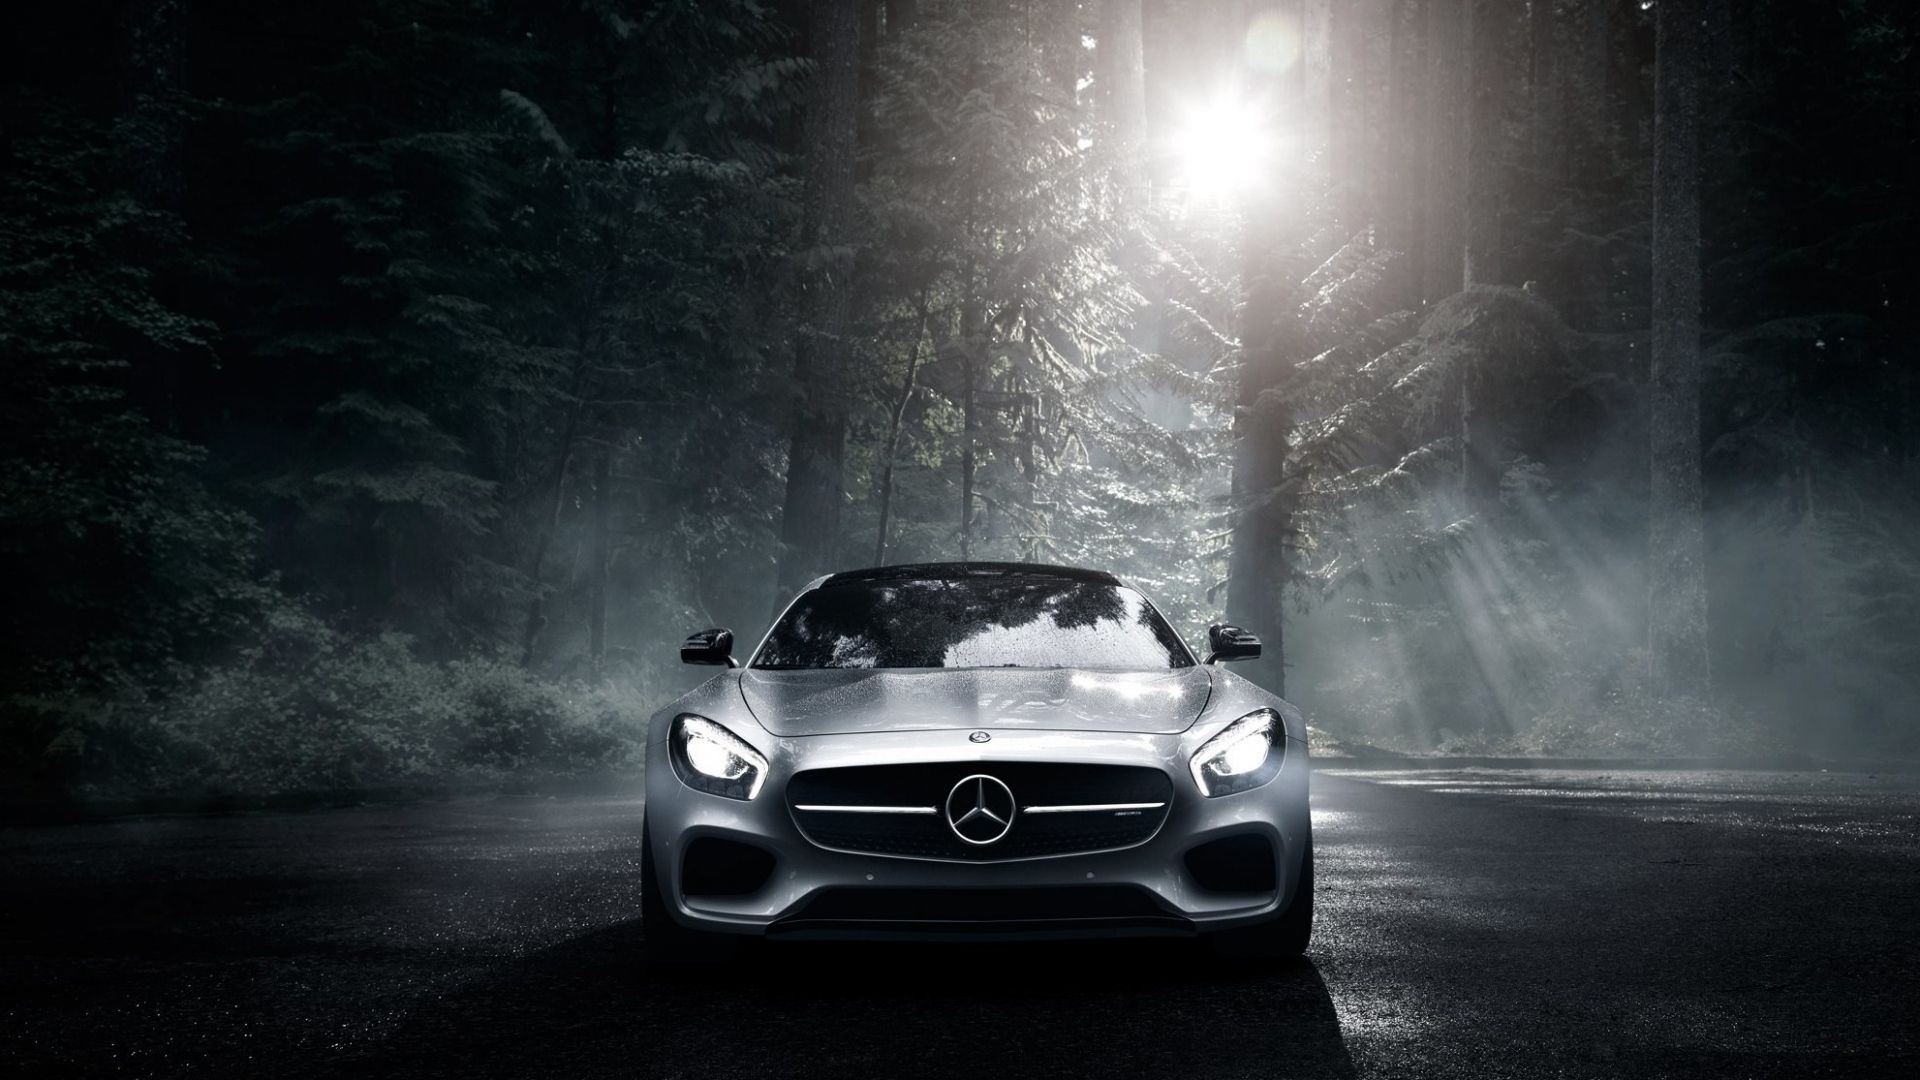
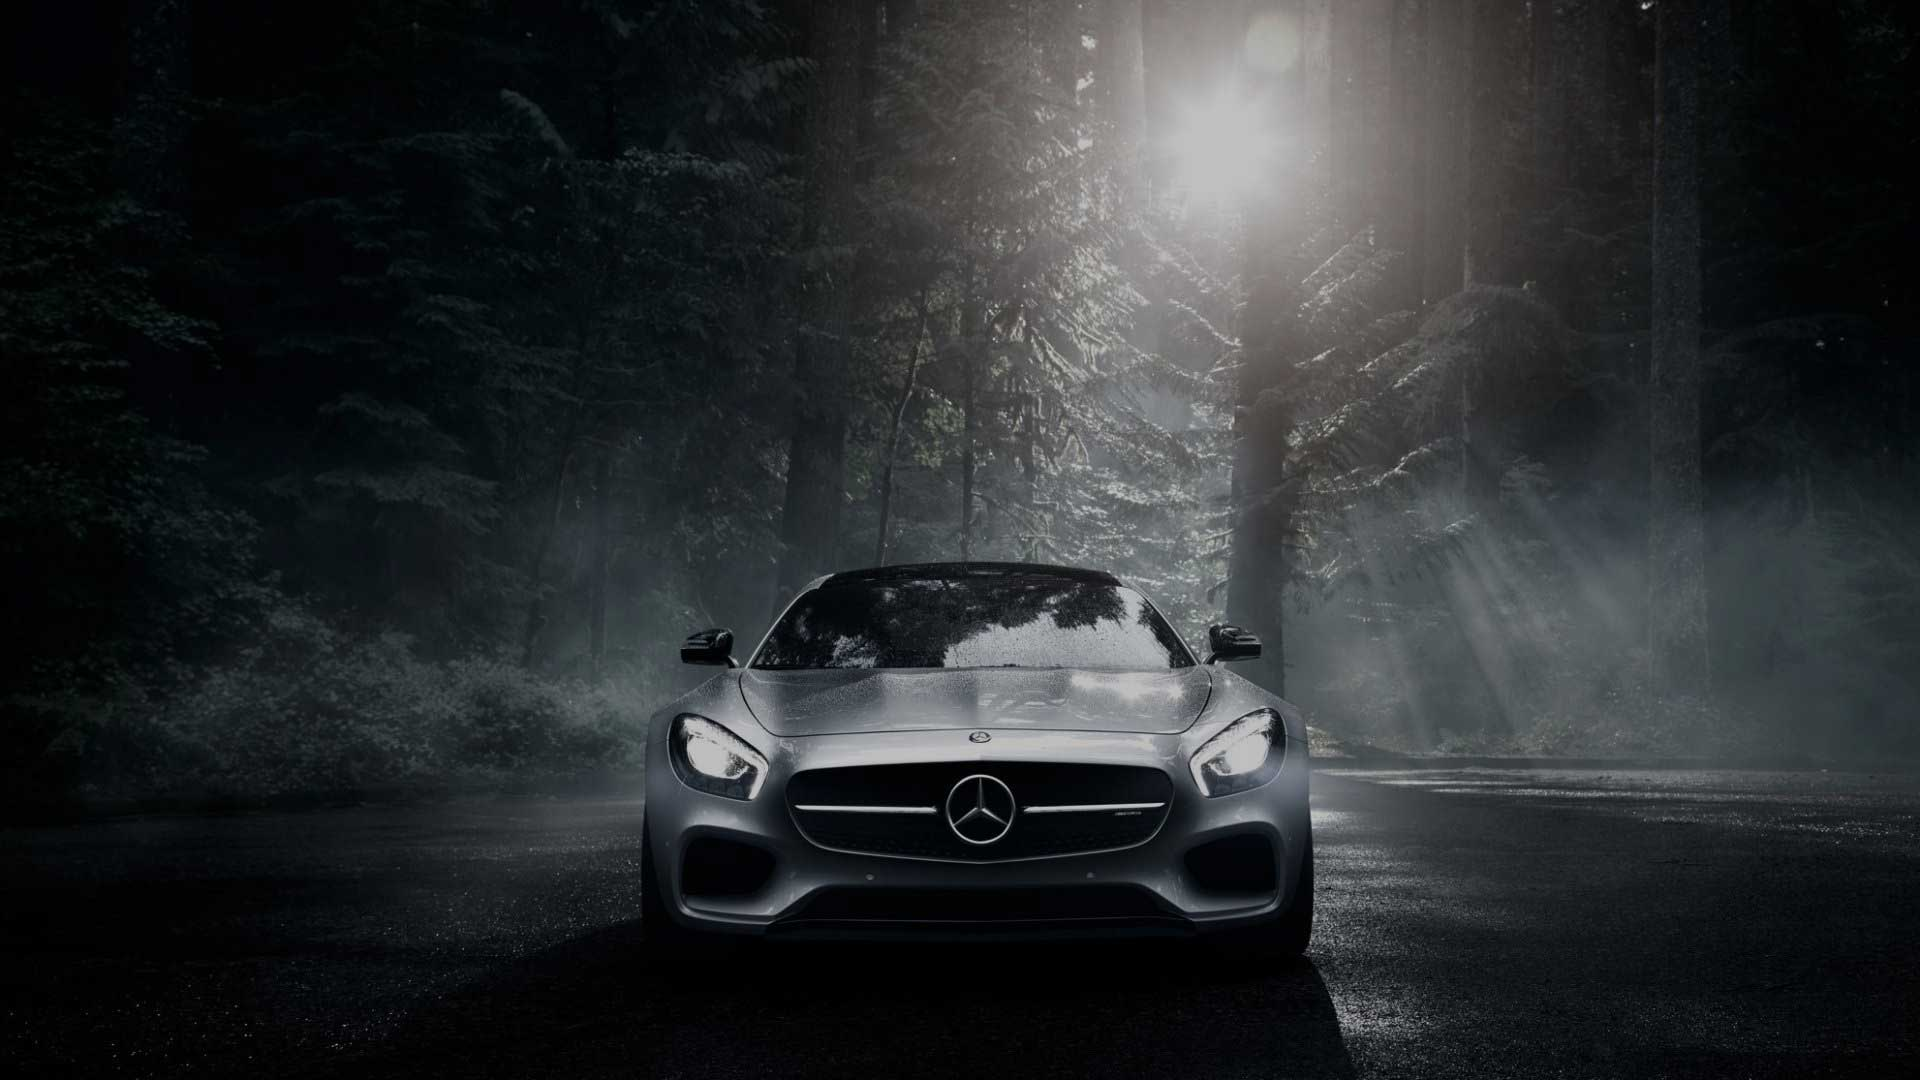
added styling to login main and/ resized images and added facebook plugins

Changed region(s): [[0.2188, 0.0, 0.9688, 0.9778], [0.3438, 0.7944, 0.4375, 0.8556], [0.4062, 0.5194, 0.4375, 0.55]]

diff --git a/resources/views/cars/show.blade.php b/resources/views/cars/show.blade.php
@@ -1,8 +1,8 @@
 @extends('main')
 @section('url', "../img/logo.svg")
 @section('jumbotron')
-
-<div class="container">
+<section style="background-color:red; background-size:cover;">
+<div class="container" >
   <div class="jumbotron" style="background-color:#343A40; color:white">
     <div class="container">
       <h1 class="display-3">{{$car->year}} {{$car->make}} {{$car->model}}</h1>
@@ -42,6 +42,7 @@
     </div>
   </div>
 </div>
+</section>
 
 @endsection
 
@@ -59,29 +60,27 @@
           <div class="carousel-item active">
             <img src="../storage/img/{{$car->image1}}" alt="{{$car->model}} image" width="1100" height="500">
             <div class="carousel-caption">
-              <h3>Los Angeles</h3>
-              <p>We had such a great time in LA!</p>
+              <h3>{{$car->make}} {{$car->model}}</h3>
+              
             </div>
           </div>
           <div class="carousel-item">
             <img src="../storage/img/{{$car->image2}}" alt="{{$car->model}} image" width="1100" height="500">
             <div class="carousel-caption">
-              <h3>Chicago</h3>
-              <p>Thank you, Chicago!</p>
+            <h3>{{$car->engine}} {{$car->fueltype}}</h3>
+             
             </div>
           </div>
           <div class="carousel-item">
             <img src="../storage/img/{{$car->image3}}" alt="{{$car->model}} image" width="1100" height="500">
             <div class="carousel-caption">
-              <h3>Chicago</h3>
-              <p>Thank you, Chicago!</p>
+      
             </div>
           </div>
           <div class="carousel-item">
             <img src="../storage/img/{{$car->image4}}" alt="{{$car->model}} image" width="1100" height="500">
             <div class="carousel-caption">
-              <h3>New York</h3>
-              <p>We love the Big Apple!</p>
+            
             </div>
           </div>
         </div>
@@ -238,19 +237,14 @@
           <h5 class="mb-0">
             <button class="btn btn-link" data-toggle="collapse" data-target="#collapseOne" aria-expanded="true"
               aria-controls="collapseOne">
-              Collapsible Group Item #1
+              What kind of inspection do you perform on your used cars? 
             </button>
           </h5>
         </div>
 
         <div id="collapseOne" class="collapse show" aria-labelledby="headingOne" data-parent="#accordion">
           <div class="card-body">
-            Anim pariatur cliche reprehenderit, enim eiusmod high life accusamus terry richardson ad squid. 3 wolf moon
-            officia aute, non cupidatat skateboard dolor brunch. Food truck quinoa nesciunt laborum eiusmod. Brunch 3
-            wolf moon tempor, sunt aliqua put a bird on it squid single-origin coffee nulla assumenda shoreditch et.
-            Nihil anim keffiyeh helvetica, craft beer labore wes anderson cred nesciunt sapiente ea proident. Ad vegan
-            excepteur butcher vice lomo. Leggings occaecat craft beer farm-to-table, raw denim aesthetic synth nesciunt
-            you probably haven't heard of them accusamus labore sustainable VHS.
+          All of our vehicles go thru an extensive mechanical, safety inspection, We take pride in delivering cars that meet and exceed industry standards for reconditioning. Our used cars inspection are made available to our customers. So if you are considering a used car please ask for your complimentary safety inspection report.
           </div>
         </div>
       </div>
@@ -259,13 +253,13 @@
           <h5 class="mb-0">
             <button class="btn btn-link collapsed" data-toggle="collapse" data-target="#collapseTwo"
               aria-expanded="false" aria-controls="collapseTwo">
-              Collapsible Group Item #2
+              What type of vehicles can you offer?
             </button>
           </h5>
         </div>
         <div id="collapseTwo" class="collapse" aria-labelledby="headingTwo" data-parent="#accordion">
           <div class="card-body">
-
+          We are specialist trained car buyers and can assist with your everyday corolla or a rare exotic such as Ferrari. We deal in just about every make and model, however most of our request are for the following brands. ( BMW, Nissan, Toyota, VW, Mercedes, Ford, Audi )
           </div>
         </div>
       </div>
@@ -274,18 +268,13 @@
           <h5 class="mb-0">
             <button class="btn btn-link collapsed" data-toggle="collapse" data-target="#collapseThree"
               aria-expanded="false" aria-controls="collapseThree">
-              Collapsible Group Item #3
+               Why is test driving a car important?
             </button>
           </h5>
         </div>
         <div id="collapseThree" class="collapse" aria-labelledby="headingThree" data-parent="#accordion">
           <div class="card-body">
-            Anim pariatur cliche reprehenderit, enim eiusmod high life accusamus terry richardson ad squid. 3 wolf moon
-            officia aute, non cupidatat skateboard dolor brunch. Food truck quinoa nesciunt laborum eiusmod. Brunch 3
-            wolf moon tempor, sunt aliqua put a bird on it squid single-origin coffee nulla assumenda shoreditch et.
-            Nihil anim keffiyeh helvetica, craft beer labore wes anderson cred nesciunt sapiente ea proident. Ad vegan
-            excepteur butcher vice lomo. Leggings occaecat craft beer farm-to-table, raw denim aesthetic synth nesciunt
-            you probably haven't heard of them accusamus labore sustainable VHS.
+          While window shopping is a good way to get started on your car buying journey, the only way to get the best feel for a vehicle is to get behind the wheel for a test drive.
           </div>
         </div>
       </div>

diff --git a/resources/views/cars/index.blade.php b/resources/views/cars/index.blade.php
@@ -3,13 +3,13 @@
 @section('url', "img/logo.svg")
 
 @section('jumbotron')
-<section style="background:url(img/headercar2.jpg);background-size:cover;background-position:fixed;">
+<section style="background:url(img/headercar2.jpg);background-size:cover;background-attachment: fixed;">
   <div class="container">
     <div class="jumbotron" style="background-color:#343A40; color:white">
       <div class="container">
-        <h1 class="display-3">Give Us A Call</h1>
-        <p>This is a template for a simple marketing or informational website. It includes a large callout called a
-          jumbotron and three supporting pieces of content. Use it as a starting point to create something more unique.
+        <h1 class="display-3">Showcase</h1>
+        <p>Take a tour of our website and find the best quality pre owned and used vehicles at reasonable pricing. Contact us for more information regarding financing and other procedures @(+267) 3500151
+           or visit our showroom to have a look at our offerings. Like a car? don't hesitate to book a test drive, click the button bellow.
         </p>
         <p><a style="background-color:black;color:white" class="btn btn-lg" href="/contact" role="button">Request Test
             Drive</a></p>
@@ -25,23 +25,23 @@
     </div>
 
     <div class="col-12 col-sm-12 col-md-4 col-lg-2" style="margin-bottom:10px;">
-      <a style="width:80%;" class="btn btn-outline-dark" href="/cars?type=SUV">suv</a>
+      <a style="width:80%;" class="btn btn-outline-warning" href="/cars?type=SUV">suv</a>
     </div>
 
     <div class="col-12 col-sm-12 col-md-4 col-lg-2" style="margin-bottom:10px;">
-      <a style="width:80%;" class="btn btn-outline-dark" href="/cars?type=Sedan">sedan</a>
+      <a style="width:80%;" class="btn btn-outline-warning" href="/cars?type=Sedan">sedan</a>
     </div>
 
     <div class="col-12 col-sm-12 col-md-4 col-lg-2" style="margin-bottom:10px;">
-      <a style="width:80%;" class="btn btn-outline-dark" href="/cars?type=Sport">sport</a>
+      <a style="width:80%;" class="btn btn-outline-warning" href="/cars?type=Sport">sport</a>
     </div>
 
     <div class="col-12 col-sm-12 col-md-6 col-lg-2" style="margin-bottom:10px;">
-      <a style="width:80%;" class="btn btn-outline-dark" href="/cars?type=4x4">4x4</a>
+      <a style="width:80%;" class="btn btn-outline-warning" href="/cars?type=4x4">4x4</a>
     </div>
 
     <div class="col-12 col-sm-12 col-md-6 col-lg-2" style="margin-bottom:10px;">
-      <a style="width:80%;" class="btn btn-outline-dark" href="/cars">all</a>
+      <a style="width:80%;" class="btn btn-outline-warning" href="/cars">all</a>
     </div>
   </div>
 </div>
@@ -69,7 +69,7 @@
           <p>Make: {{$car->make}}</p>
           <p>Milleage: {{$car->milleage}}</p>
           <p>Engine: {{$car->fueltype}}</p>
-          <p>Price: BWP{{$car->price}}</p>
+          <p>Price: BWP {{$car->price}}</p>
 
           @if(Auth::user())
           <a href="/cars/{{$car->id}}" class="btn btn-dark">View Car</a>
@@ -95,4 +95,5 @@
     </div>
   </div>
 </div>
+
 @endsection

diff --git a/resources/views/welcome.blade.php b/resources/views/welcome.blade.php
@@ -1,14 +1,15 @@
 <!doctype html>
-<html lang="en">
+<html lang="en" prefix="og: http://ogp.me/ns#">
 <head>
     <meta charset="UTF-8">
     <meta name="viewport" content="width=device-width, initial-scale=1.0">
     <meta http-equiv="X-UA-Compatible" content="ie=edge">
     <meta property="og:url"           content="https://www.hitechcars.co.bw/" />
-  <meta property="og:type"          content="website" />
-  <meta property="og:title"         content="hitech cars" />
-  <meta property="og:description"   content="Certified pre owned car dealership" />
-  <meta property="og:image"         content="" />
+    <meta property="og:type"          content="website" />
+    <meta property="og:title"         content="Hitech Cars" />
+    <meta property="og:description"   content="Hi-Tech Cars is a certified pre owned and used vehicle dealership based in Gaborone Botswana" />
+    <meta property="og:image"         content="img/logo.svg" />
+    <meta name="keywords" content="used cars, botswana, hi-tech cars, hitech, cars gaborone, cars botswana, pre owned, affordable cars">
     <link rel="stylesheet" href="https://maxcdn.bootstrapcdn.com/bootstrap/4.0.0/css/bootstrap.min.css" integrity="sha384-Gn5384xqQ1aoWXA+058RXPxPg6fy4IWvTNh0E263XmFcJlSAwiGgFAW/dAiS6JXm" crossorigin="anonymous">
     <link rel="stylesheet" href="css/main.css">
     <script src="https://code.jquery.com/jquery-3.2.1.slim.min.js" integrity="sha384-KJ3o2DKtIkvYIK3UENzmM7KCkRr/rE9/Qpg6aAZGJwFDMVNA/GpGFF93hXpG5KkN" crossorigin="anonymous"></script>

diff --git a/resources/views/auth/login.blade.php b/resources/views/auth/login.blade.php
@@ -4,7 +4,7 @@
 <div class="container">
     <div class="row justify-content-center">
         <div class="col-md-8">
-            <div class="card" style="padding-bottom:30px; opacity:0.8">
+            <div class="card" style="padding-bottom:30px; opacity:0.8;background-color:grey">
                 <div class="card-header">{{ __('Login') }}</div>
 
                 <div class="card-body">
@@ -53,12 +53,12 @@
 
                         <div class="form-group row mb-0">
                             <div class="col-md-8 offset-md-4">
-                                <button type="submit" class="btn btn-primary">
+                                <button type="submit" class="btn btn-dark">
                                     {{ __('Login') }}
                                 </button>
 
                                 @if (Route::has('password.request'))
-                                    <a class="btn btn-link" href="{{ route('password.request') }}">
+                                    <a style="color:white;" class="btn btn-link" href="{{ route('password.request') }}">
                                         {{ __('Forgot Your Password?') }}
                                     </a>
                                 @endif

diff --git a/resources/views/main.blade.php b/resources/views/main.blade.php
@@ -110,6 +110,7 @@
           <div class="col-12 col-sm-12 col-md-6 col-lg-6">
               <h3>Our Motto</h3>
               <p><em>"customer Satisfaction is our priority and high quality motor cars to all residents across the country of Botswana".</em></p>
+              <div data-width="100%" class="fb-comments" data-href="https://www.facebook.com/Hitech-CARS-Online-Showroom-1771264649855027/" data-numposts="5"></div>
           </div>
           <div class="col-12 col-sm-12 col-md-6 col-lg-6">
           <h3>Follow Us On Social Media</h3>
@@ -119,7 +120,7 @@
           </div>
       </div>
       <p style="color:white">Copyright &copy; 2019 Hi-Tech Cars
-      by <a href="https://twitter.com/mdo">rkm creatives</a>.</p>
+      by || <a href="https://www.facebook.com/RKM-Creatives-366209597550308/" style="color:white">rkm creatives</a>.</p>
       </div>
   </footer>
 
